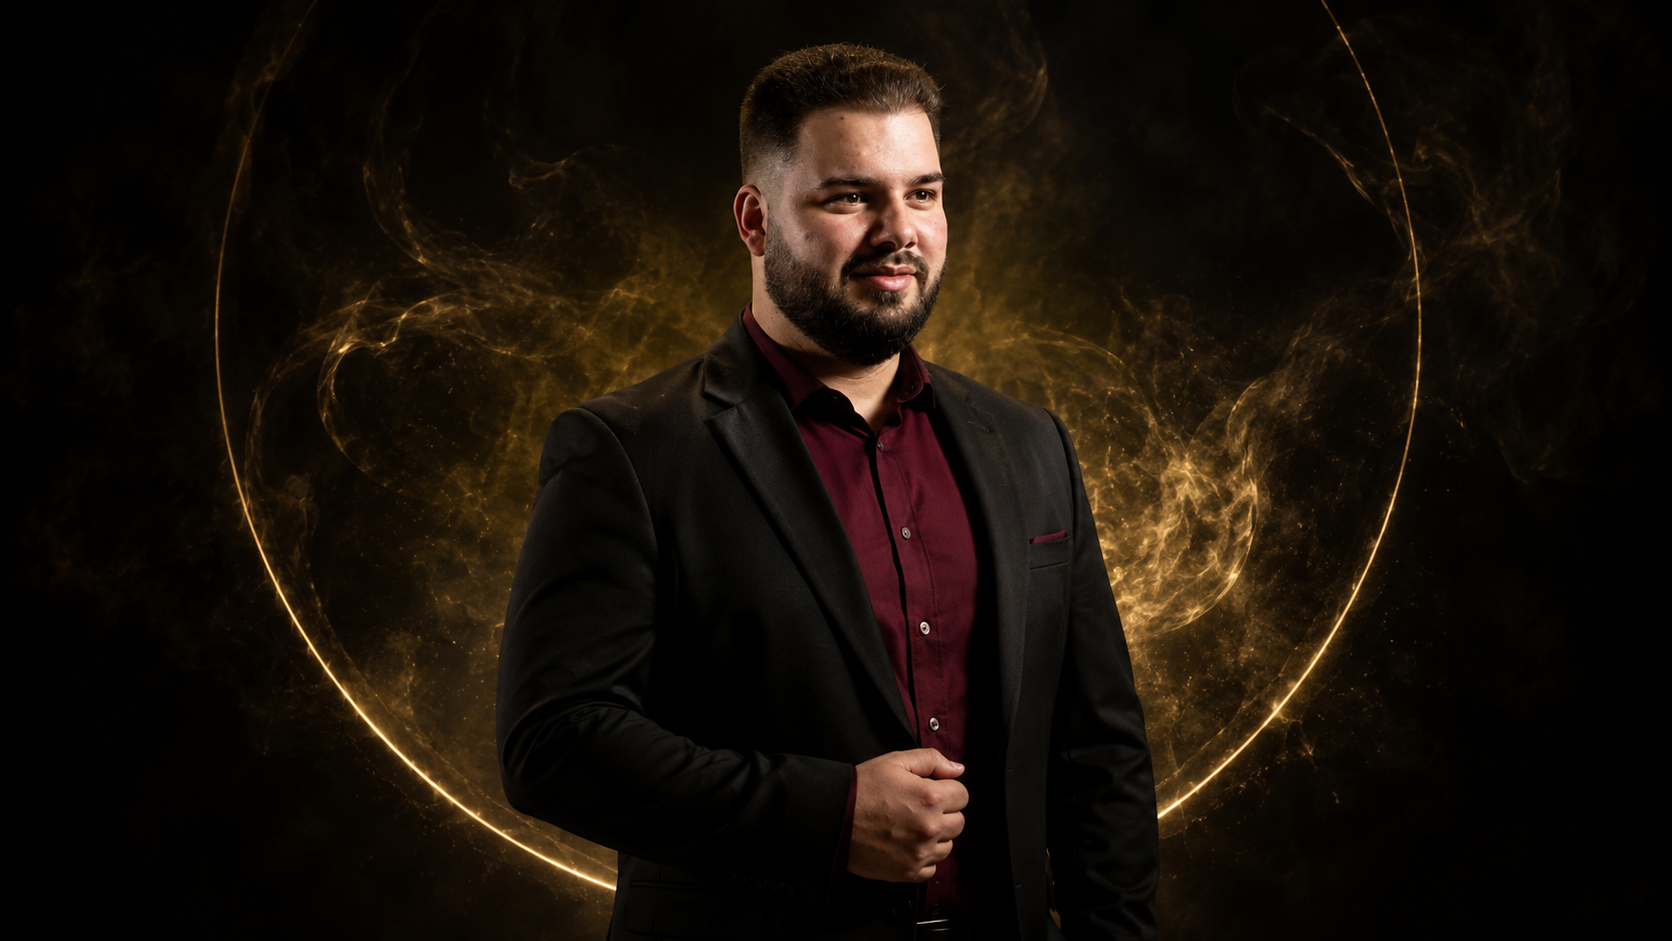
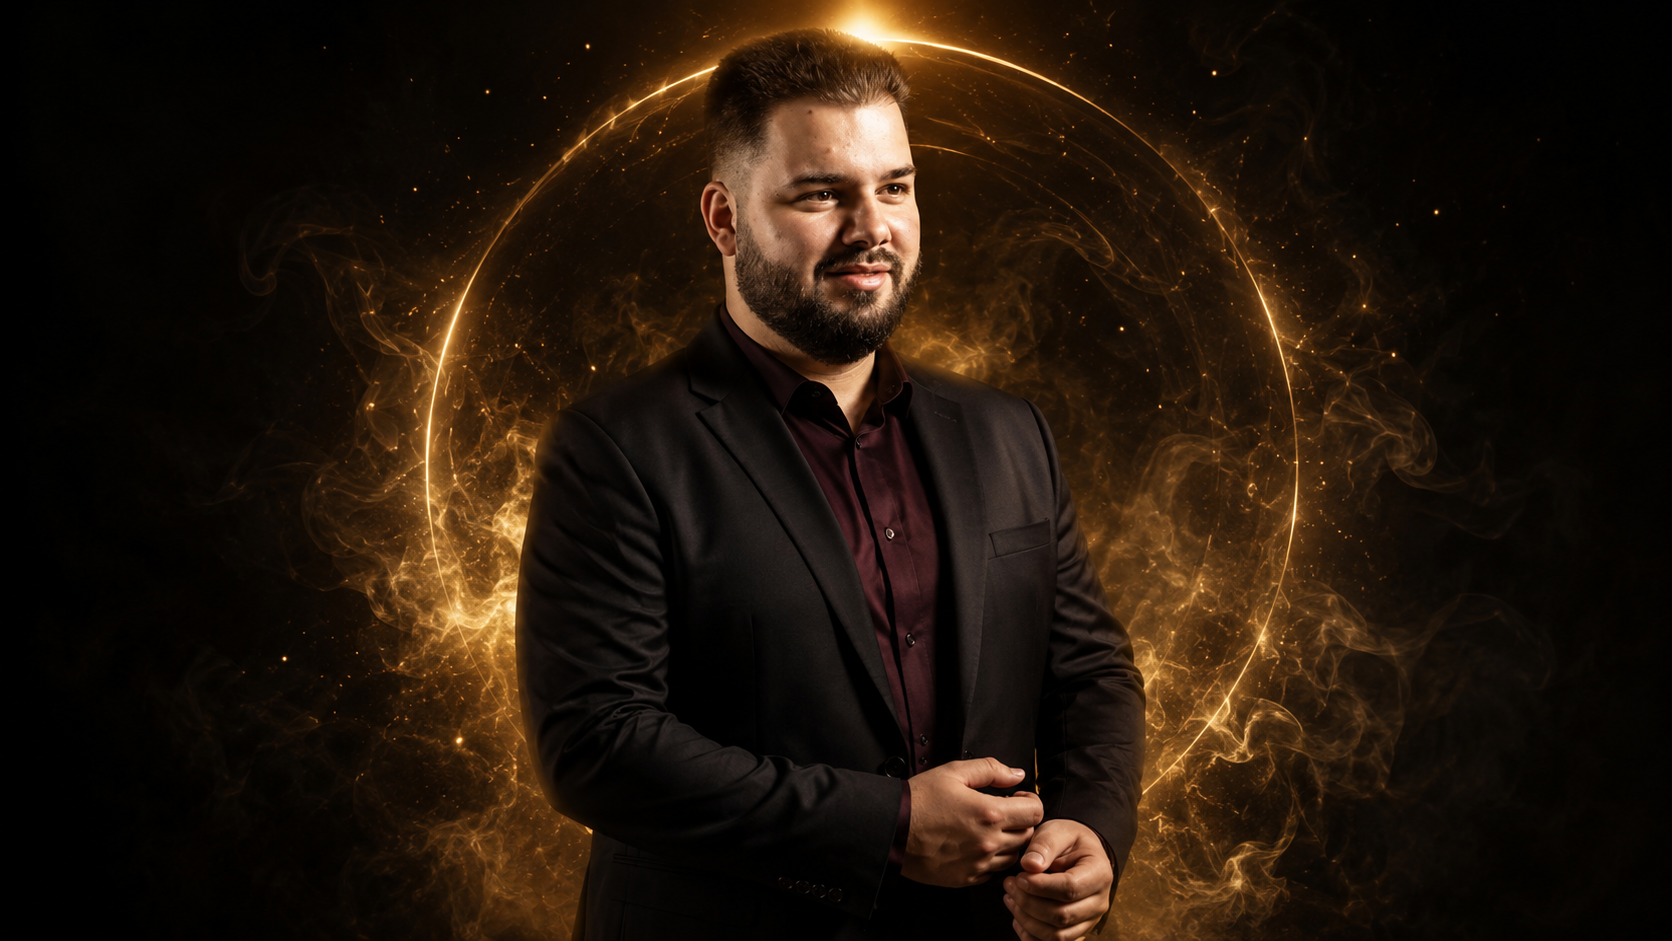
Add files via upload

diff --git a/style.css b/style.css
@@ -1,6 +1,6 @@
 
 :root{--bronze:#c89a63}*{box-sizing:border-box}html{scroll-behavior:smooth}body{margin:0;background:#050505;color:#fff;font-family:'Cormorant Garamond',serif;overflow-x:hidden}
-.smoke-layer{position:fixed;inset:-10%;background:url(smoke.jpg) center/cover no-repeat;opacity:.22;z-index:-1;will-change:transform}
+.smoke-layer{position:fixed;inset:-10%;background:url(smoke.png) center/cover no-repeat;opacity:.22;z-index:-1;will-change:transform}
 .cursor{width:18px;height:18px;border:1px solid var(--bronze);border-radius:50%;position:fixed;pointer-events:none;z-index:99999}
 #progressBar{position:fixed;top:0;left:0;height:3px;width:0;background:linear-gradient(90deg,#c89a63,#fff)}
 .nav{position:fixed;top:0;width:100%;padding:24px 5%;display:flex;justify-content:space-between;backdrop-filter:blur(14px)}
@@ -103,7 +103,7 @@ border-top:1px solid rgba(200,154,99,.18);
 .nav.scrolled .logo img{height:58px!important}
 .menu-toggle{background:none;border:0;color:#fff;cursor:pointer;letter-spacing:2px}
 .desktop{display:none!important}
-.menu-overlay{position:fixed;inset:0;background:rgba(0,0,0,.55);backdrop-filter:blur(10px);display:flex;flex-direction:column;justify-content:center;align-items:center;gap:24px;opacity:0;pointer-events:none;transition:.5s;z-index:9999}
+.menu-overlay{position:fixed;inset:0;background:rgba(0,0,0,.95);backdrop-filter:blur(10px);display:flex;flex-direction:column;justify-content:center;align-items:center;gap:24px;opacity:0;pointer-events:none;transition:.5s;z-index:9999}
 .menu-overlay.open{opacity:1;pointer-events:auto}
 .menu-overlay a{color:#fff;text-decoration:none;font-size:2rem}
 .faq-item{max-width:900px;margin:20px auto;border-bottom:1px solid rgba(200,154,99,.2);padding:20px}
@@ -111,3 +111,43 @@ border-top:1px solid rgba(200,154,99,.18);
 .faq-a{max-height:0;overflow:hidden;transition:.4s ease;opacity:.7}
 .faq-item.open .faq-a{max-height:120px;padding-top:15px}
 footer{margin-top:120px;padding-bottom:20px!important}
+
+
+/* Final Luxury Pass */
+.hero{min-height:140vh!important}
+.section{padding-top:220px!important;padding-bottom:220px!important}
+.reveal{
+opacity:0;
+transform:translateY(70px) scale(.97);
+filter:blur(14px);
+transition:all 1.4s cubic-bezier(.22,1,.36,1);
+}
+.reveal.visible{
+opacity:1;
+transform:translateY(0) scale(1);
+filter:blur(0);
+}
+.smoke-layer{
+opacity:.18!important;
+inset:-25%!important;
+width:150%!important;
+height:150%!important;
+}
+body::before{
+content:'';
+position:fixed;
+inset:0;
+pointer-events:none;
+background:
+radial-gradient(circle at 50% 20%, rgba(200,154,99,.08), transparent 40%),
+radial-gradient(circle at 20% 70%, rgba(200,154,99,.05), transparent 35%);
+z-index:-1;
+}
+.flip-card:hover{
+transform:scale(1.06);
+filter:drop-shadow(0 0 25px rgba(200,154,99,.22));
+}
+footer{
+padding-top:140px!important;
+padding-bottom:50px!important;
+}

diff --git a/script.js b/script.js
@@ -20,3 +20,17 @@ const n=document.querySelector('.nav');
 if(window.scrollY>20)n.classList.add('scrolled');else n.classList.remove('scrolled');
 });
 document.querySelectorAll('.faq-q').forEach(q=>q.onclick=()=>q.parentElement.classList.toggle('open'));
+
+
+// repeatable reveal system
+const revealObserver=new IntersectionObserver(entries=>{
+ entries.forEach(entry=>{
+   if(entry.isIntersecting){
+      entry.target.classList.add('visible');
+   }else{
+      entry.target.classList.remove('visible');
+   }
+ });
+},{threshold:0.18});
+
+document.querySelectorAll('.reveal').forEach(el=>revealObserver.observe(el));
